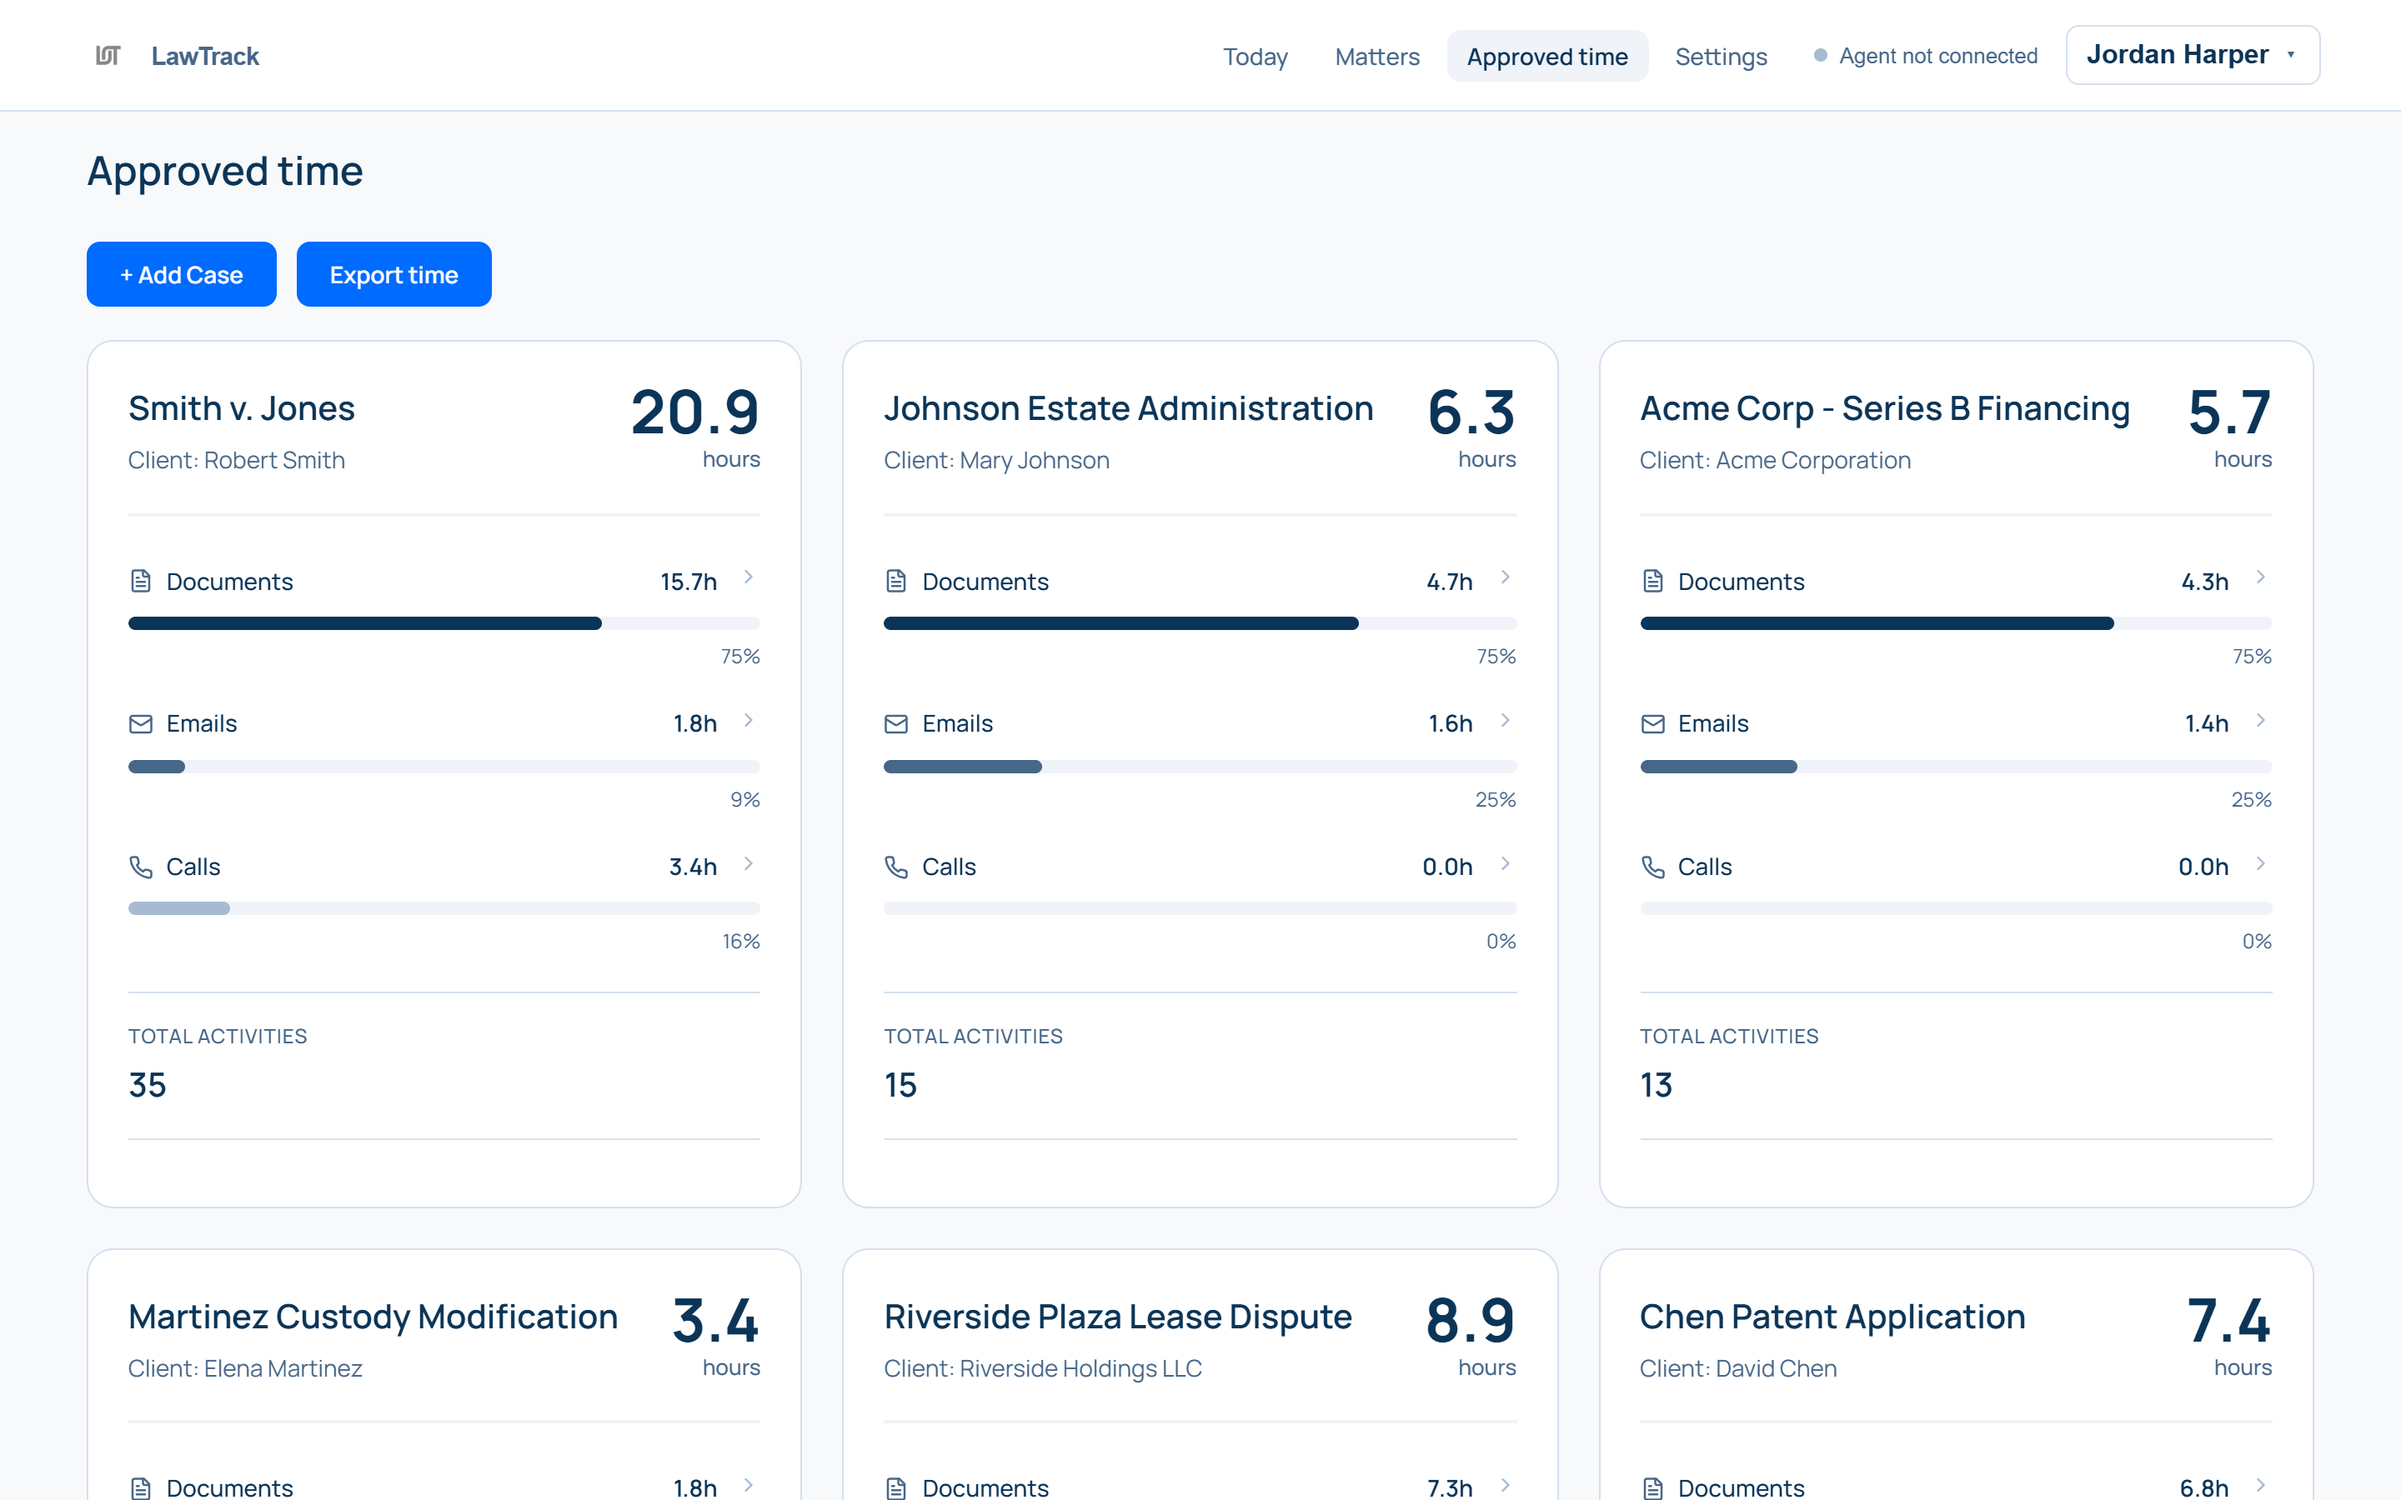
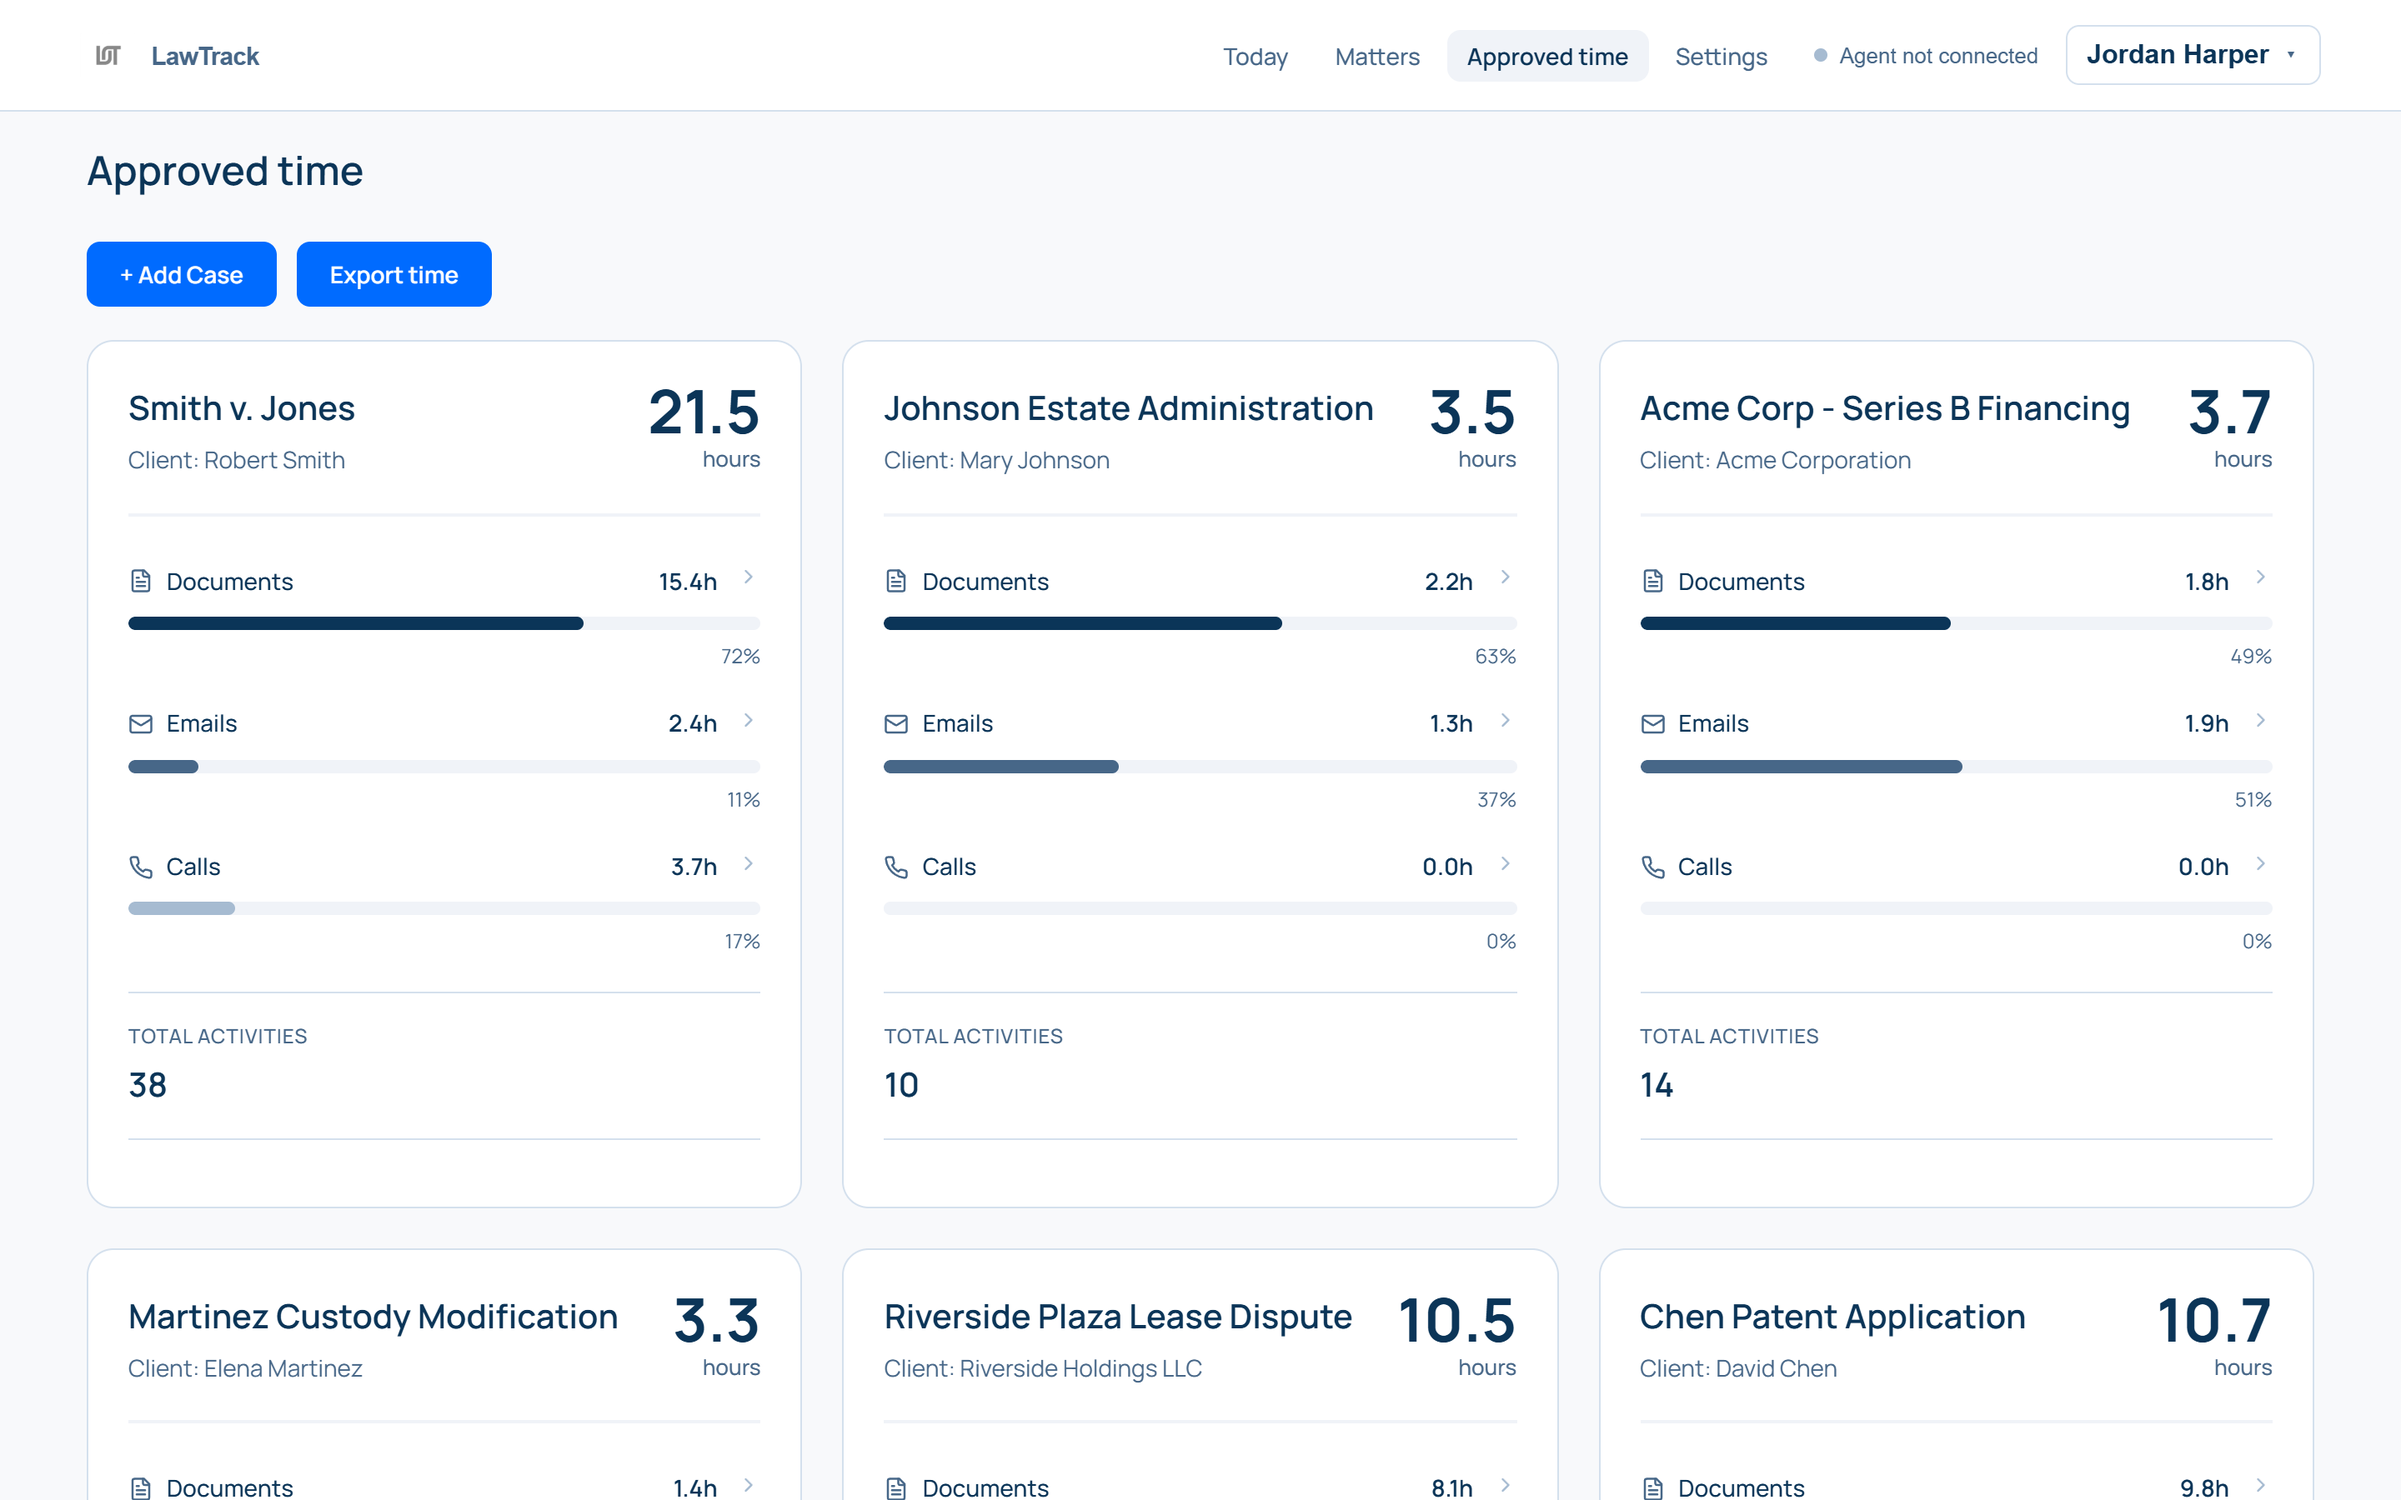
Refresh screenshots and document remote pause

diff --git a/README.md b/README.md
@@ -20,7 +20,7 @@ Lawyers bill in 6-minute increments, and many reconstruct their day from memory 
 - **Rule-based auto-assignment.** Each attorney defines prioritized rules (`document name contains "smith v jones"`, `email domain equals acmecorp.com`, …). Incoming activity is matched server-side and tagged *Auto-matched*. Anything unmatched lands in a review queue.
 - **Daily review workflow.** Activities move from `captured` → `edited` → `approved` → `invoiced`. You can bulk-approve, merge, split, or drag entries on a weekly calendar.
 - **Billing reports and PDF invoices.** Per-matter hour breakdowns by activity type, CSV export, and client invoices generated in the browser with jsPDF.
-- **Privacy controls.** Excluded keywords are checked before an activity is stored, so personal apps and sites are never recorded at all.
+- **Privacy controls.** Excluded keywords are checked before an activity is stored, so personal apps and sites are never recorded at all. Tracking can also be paused from any browser: the agent polls the setting and stops capturing, and the server rejects agent activity while paused.
 - **Multi-tenant and role-aware.** Data is scoped per attorney and per firm, with `attorney`, `billing`, and `admin` roles, JWT auth for the web app, Google sign-in, and separate hashed API keys for the desktop agent.
 
 | Matters | Auto-assignment rules |
